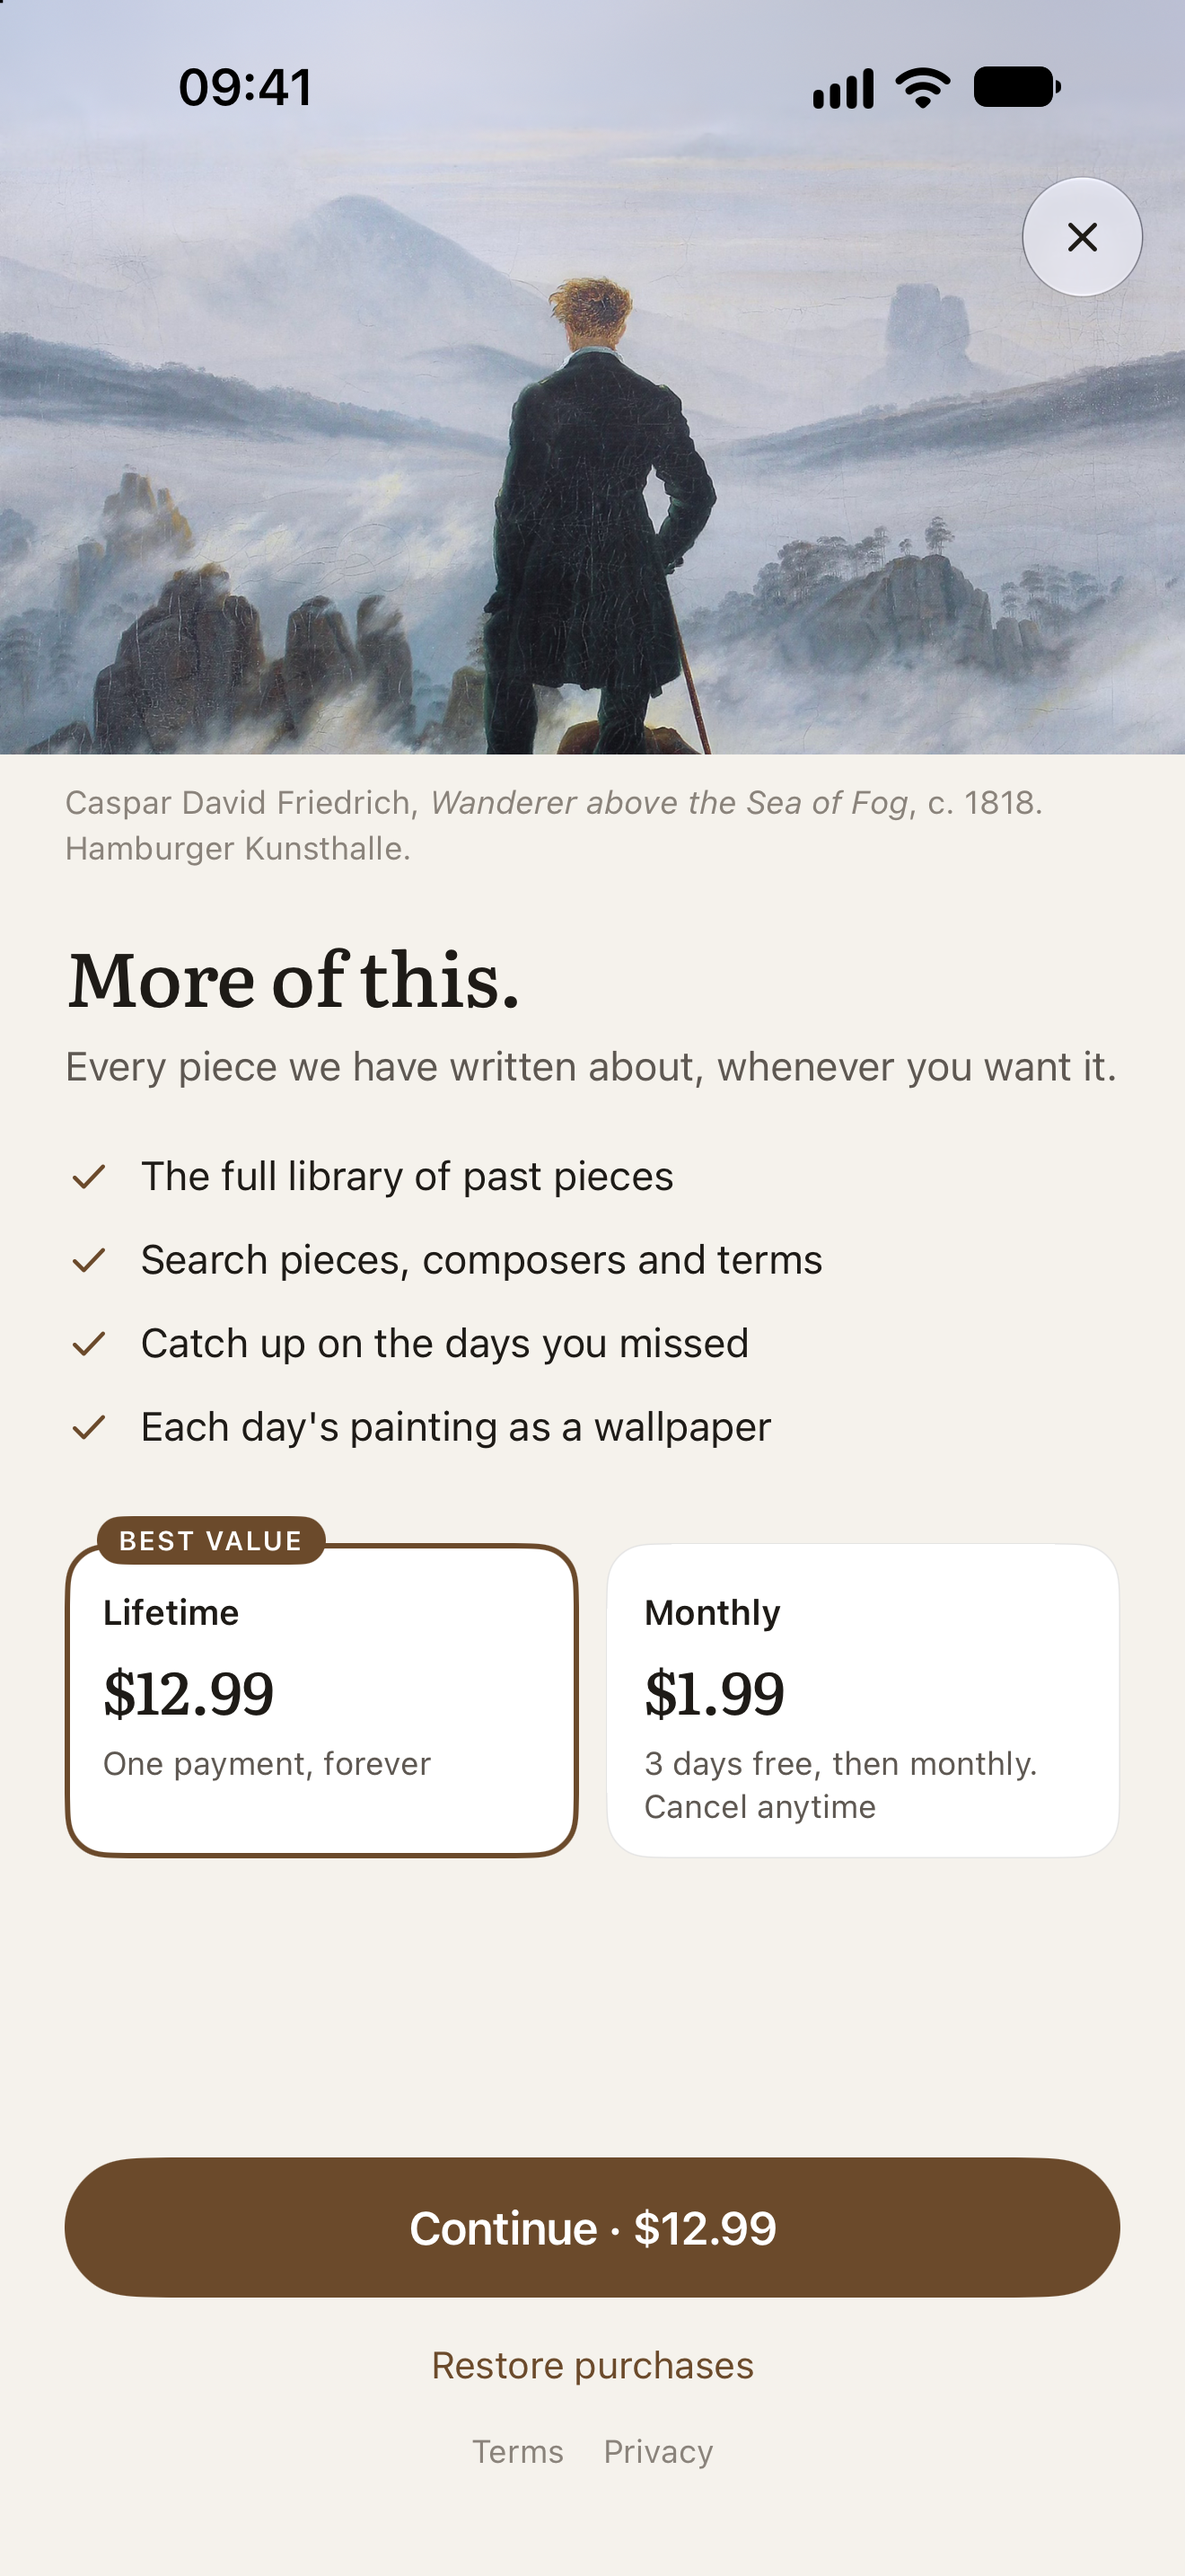
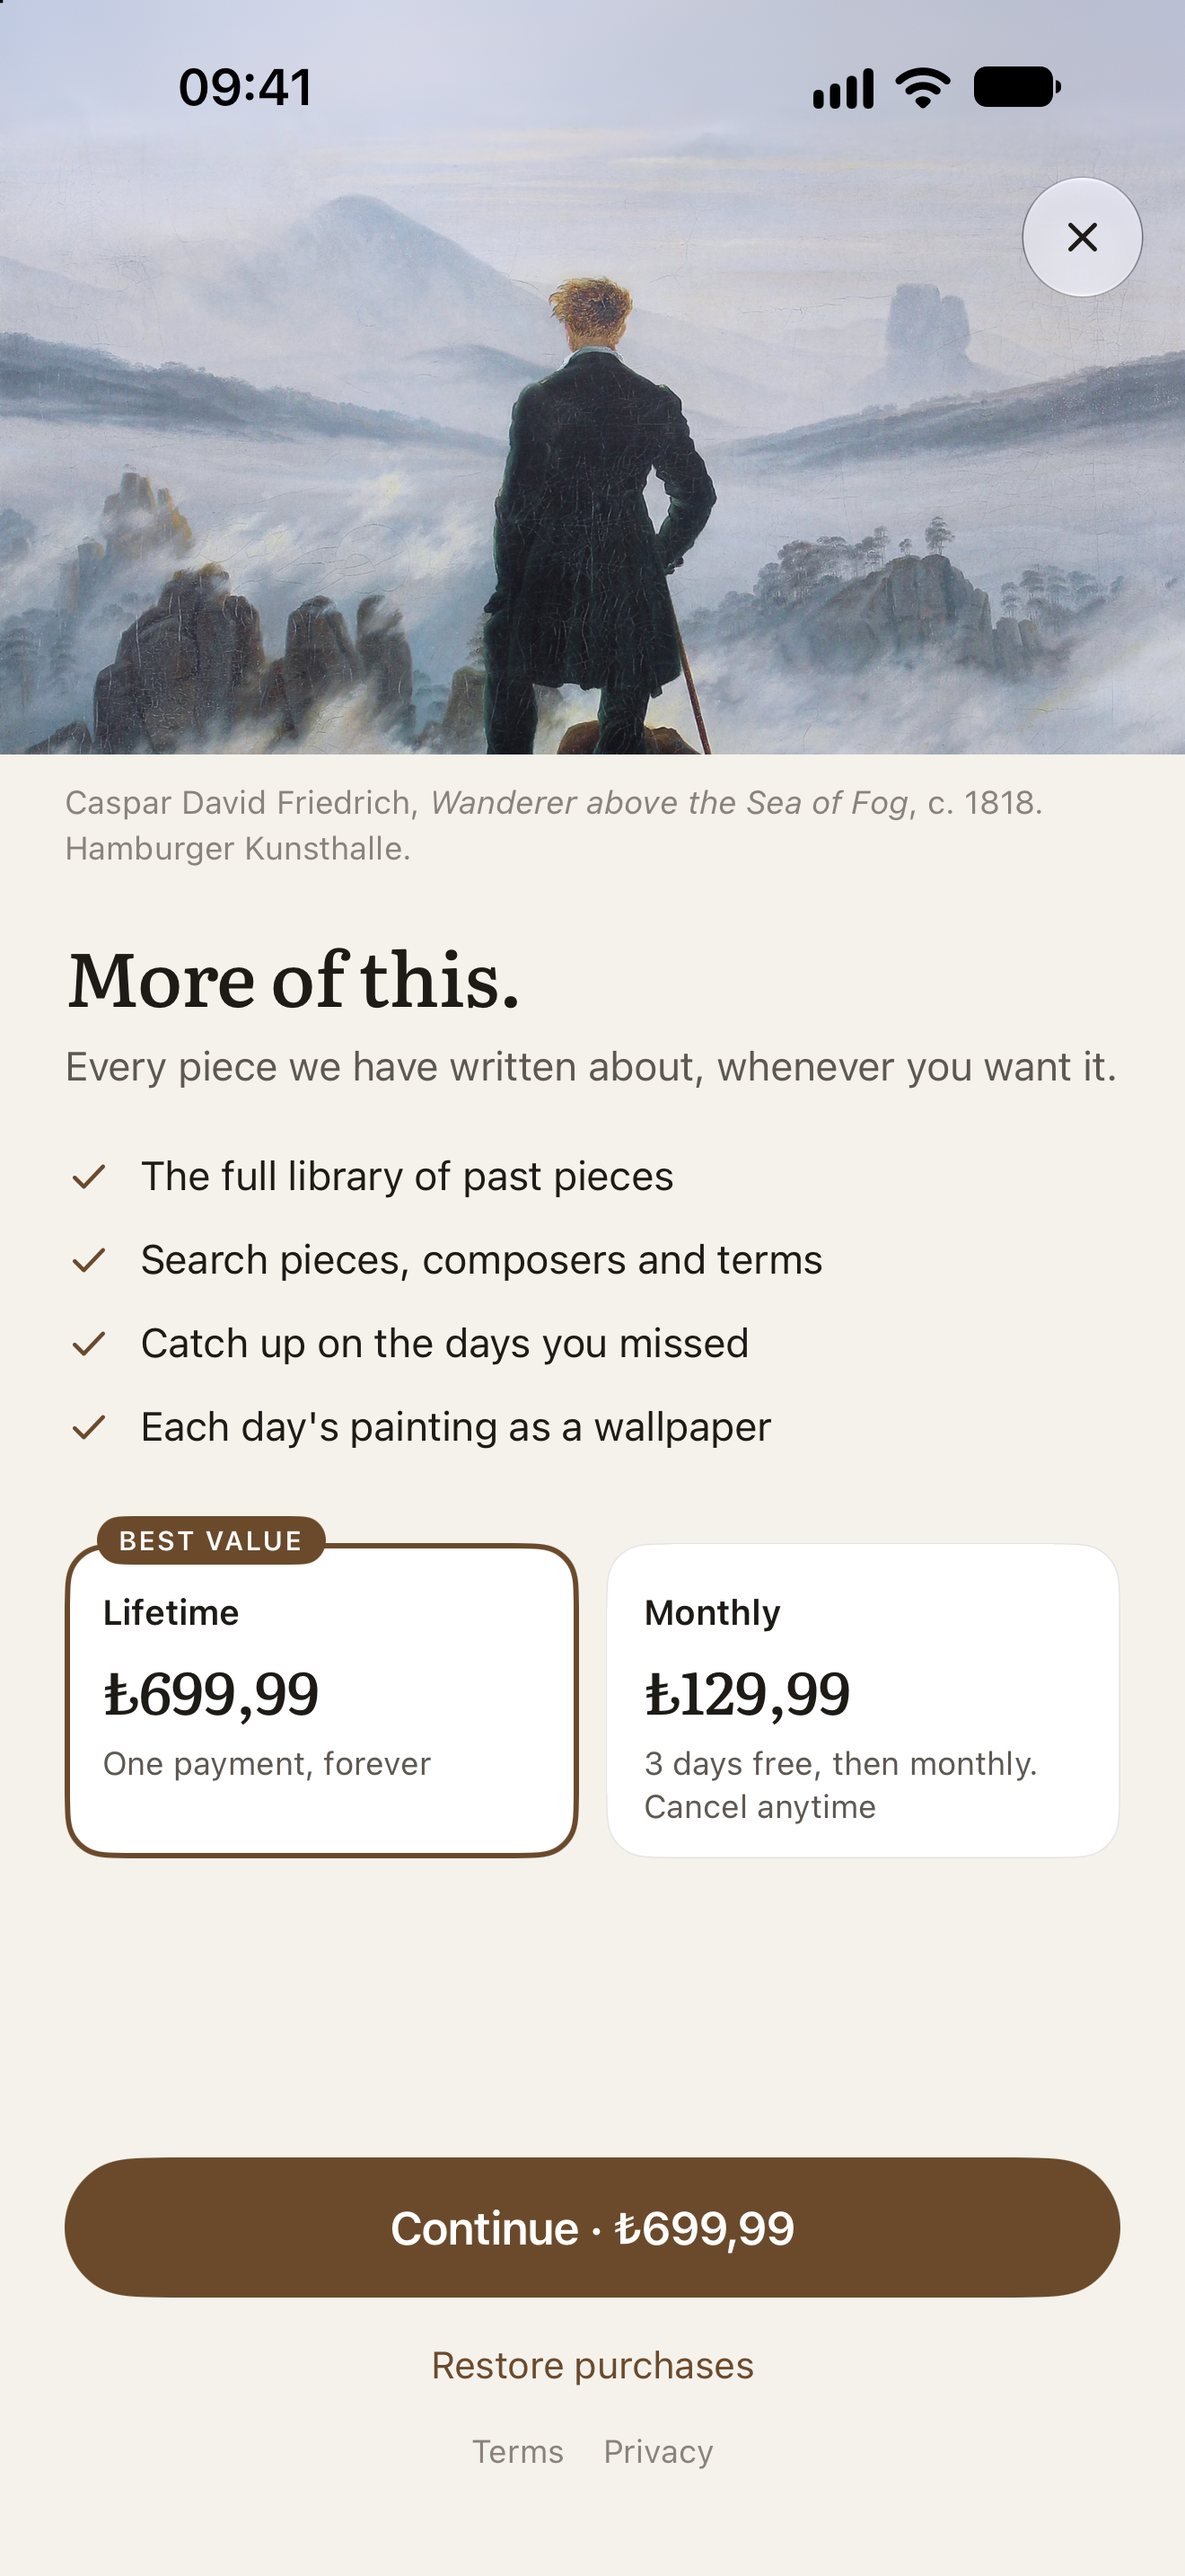
Connect RevenueCat (public SDK key); store test pinned to the TUR storefront; review shots in lira

Changed region(s): [[0.3417, 0.8379, 0.6833, 0.8689], [0.528, 0.6517, 0.7144, 0.6827], [0.0932, 0.6517, 0.2795, 0.6827]]

diff --git a/ios/DailyClassicalTests/StoreTests.swift b/ios/DailyClassicalTests/StoreTests.swift
@@ -4,17 +4,19 @@ import Testing
 @testable import DailyClassical
 
 /// Runs EntitlementStore's StoreKit 2 path against the local StoreKit configuration (the prices
-/// and the monthly plan's free trial the paywall shows before RevenueCat is connected).
+/// and the monthly plan's free trial), independent of the RevenueCat key the app ships with.
 @MainActor
 struct StoreTests {
     @Test func pricesAndMonthlyTrialLoad() async throws {
         let url = try #require(Bundle.main.url(forResource: "DailyClassical", withExtension: "storekit"))
         let session = try SKTestSession(contentsOf: url)
         session.resetToDefaultState()
+        // The simulator's own storefront (often USA) would convert the lira prices to its own.
+        session.storefront = "TUR"
         session.disableDialogs = true
         session.clearTransactions()
 
-        let store = EntitlementStore()
+        let store = EntitlementStore(revenueCatKey: nil)
         await store.load()
         #expect(store.isAvailable(.lifetime))
         #expect(store.isAvailable(.monthly))

diff --git a/ios/DailyClassical/Core/Services/EntitlementStore.swift b/ios/DailyClassical/Core/Services/EntitlementStore.swift
@@ -57,8 +57,9 @@ final class EntitlementStore {
     @ObservationIgnored private var packages: [Plan: Package] = [:]
     @ObservationIgnored private var updates: Task<Void, Never>?
 
-    init() {
-        if let key = Self.revenueCatKey {
+    /// `revenueCatKey: nil` forces the StoreKit 2 path (tests against the local configuration).
+    init(revenueCatKey: String? = EntitlementStore.revenueCatKey) {
+        if let key = revenueCatKey {
             #if DEBUG
             Purchases.logLevel = .info
             #endif

diff --git a/docs/BACKLOG.md b/docs/BACKLOG.md
@@ -22,7 +22,7 @@ Son güncelleme: 8 Ekim 2026. Köşeli parantez içinde işin sahibi var: **[Cla
 
 ## Altyapı
 - **[Oytun] Yasal metinlerin hukuki okuması:** Kullanım koşulları ve gizlilik metinleri iyi niyetli taslaklar; yayından önce bir avukatın ya da KVKK danışmanının bakması önerilir. Özellikle şirket/şahıs bilgisi (veri sorumlusu adı ve adresi) eklenmeli; şu an yalnızca `hello@dailyclassical.co` var ve bu adresin e-posta alabildiğinden emin ol.
-19. **[Oytun + Claude] App Store Connect ve RevenueCat:** Adım adım rehber `docs/APP_STORE.md` içinde (uygulama kaydı, ürünler, RevenueCat, sandbox testi, mağaza metinleri, gizlilik etiketleri, inceleme notları, TestFlight). RevenueCat kodu hazır; public API anahtarı gelince açılacak. Fiyatlar: ömür boyu ₺699,99, aylık ₺129,99 + 3 gün ücretsiz deneme.
+19. **[Oytun + Claude] App Store Connect ve RevenueCat:** Adım adım rehber `docs/APP_STORE.md` içinde (uygulama kaydı, ürünler, RevenueCat, sandbox testi, mağaza metinleri, gizlilik etiketleri, inceleme notları, TestFlight). RevenueCat bağlandı (public anahtar uygulamada, `default` offering doğrulandı). Sıradaki: cihazda sandbox testi (madde 4). Fiyatlar: ömür boyu ₺699,99, aylık ₺129,99 + 3 gün ücretsiz deneme.
 
 ## Yayından önce sıfırlanacak test verisi
 - **Takvim:** `content/schedule.yaml` içerik kontrolü için 27 Eylül 2026'dan başlıyor, böylece 10 eserin hepsi Kitaplık'ta görünüyor. Yayından önce `start` yayın gününe çekilecek ve sıra Çaykovski 6 ile başlayacak. Ardından `npm run db:seed && npm run fixtures` çalıştırılacak.

diff --git a/docs/APP_STORE.md b/docs/APP_STORE.md
@@ -83,7 +83,7 @@ Her ürün için **Review Screenshot** istenir: `design/app-store/review/premium
    Sonra listede `default` satırında **⋯** › **Make current** (yanında tik görünür). Uygulama yalnızca current offering'i okuyor; paketleri içlerindeki ürün kimliğinden tanıyor.
 6. **API Keys** › bu uygulamanın **Public app-specific API key**'ini (`appl_` ile başlar) bana ver. Bu anahtar herkese açık, uygulamaya gömülür; gizli değil. **Secret key'i verme.**
 
-Anahtar gelince ben `project.yml` içindeki `REVENUECAT_API_KEY` ayarına yazacağım; uygulama o andan itibaren satın almaları RevenueCat üzerinden yapacak. Anahtar yokken uygulama doğrudan StoreKit 2 kullanıyor (yerel test).
+**Tamam (8 Ekim 2026):** Public anahtar `project.yml` › `REVENUECAT_API_KEY` ayarında; uygulama satın almaları RevenueCat üzerinden yapıyor. RevenueCat API'si `default` offering'i iki paketle (`$rc_monthly`, `$rc_lifetime`) current olarak döndürüyor; paywall ₺699,99 / ₺129,99 ve 3 günlük denemeyi gösteriyor. Birim testi StoreKit yolunu ayrıca (anahtardan bağımsız, TUR mağazası) kontrol ediyor.
 
 ## 4. Sandbox testi [Oytun + Claude]
 
